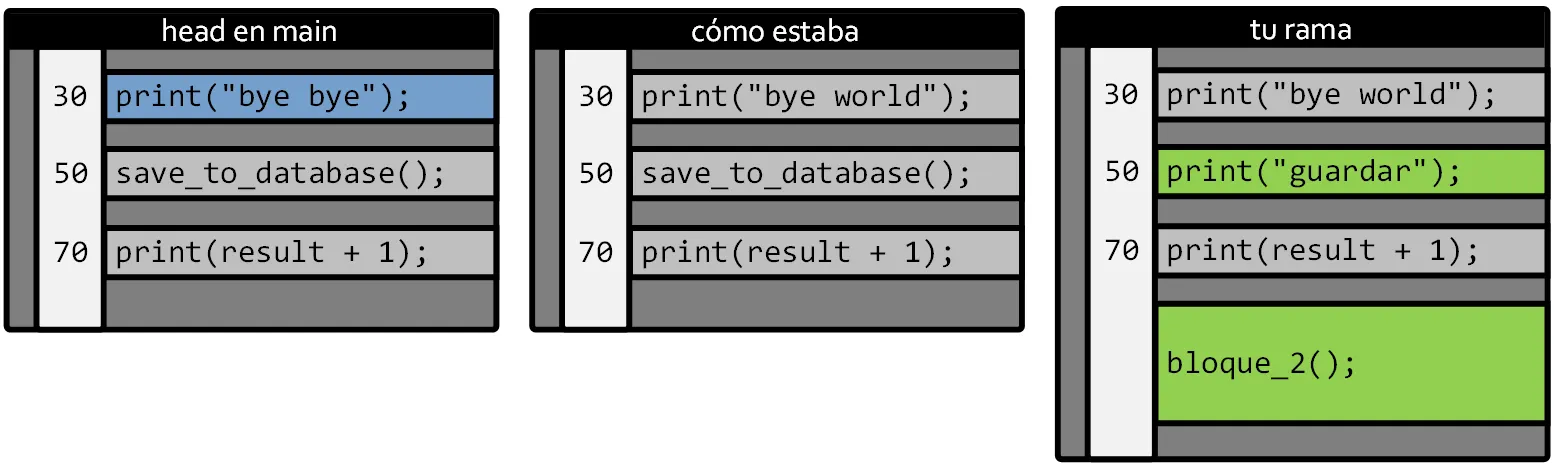
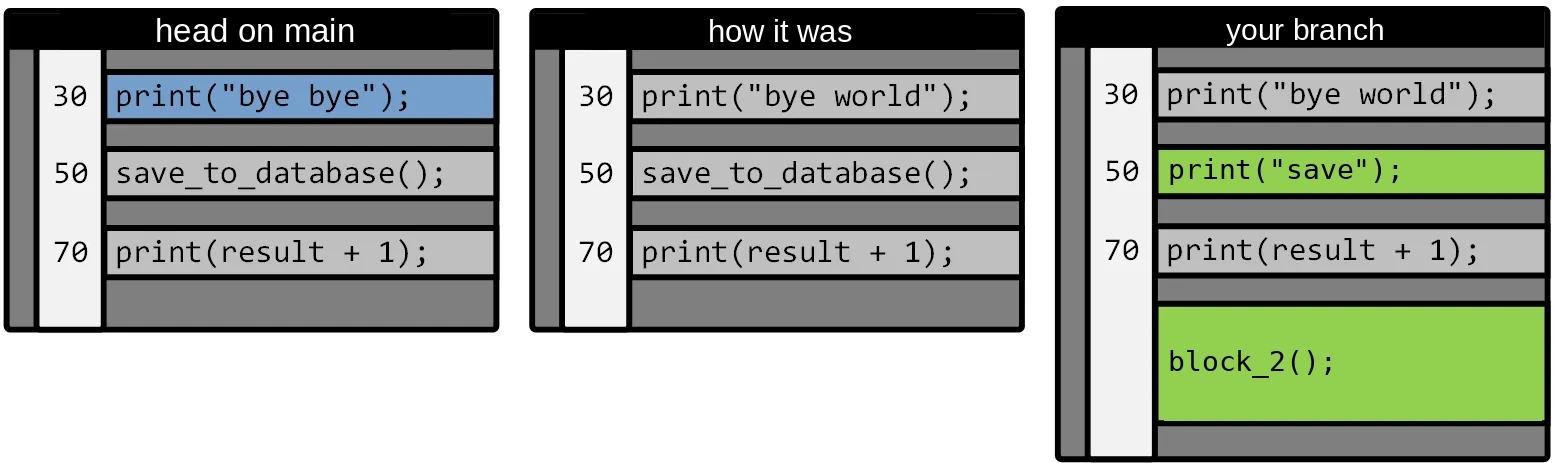
Translate diagram labels to English in 'Merges demystified'
Repaint the Spanish labels (panel titles, callouts, code identifiers)
in the diagrams with English text and update the post body to match.

Claude-Session: https://claude.ai/code/session_01Bm8L8zPbLpS56Kb4V7hqMr

diff --git a/content/posts/merges-demystified/index.md b/content/posts/merges-demystified/index.md
@@ -61,8 +61,6 @@ Sometimes this happens, and then merge tools need a human to decide:
 
 ![](./3.webp)
 
-(In the diagram, ‘tuyo’ is yours, ‘mío’ is mine, and ‘base’ is the base.)
-
 You put a 15 on line 50 where there used to be a 20, and I put a 25.
 
 This is what is called a ‘manual conflict’ and it is when you have to use a mergetool, or if you don’t have one, that thing with >>>>>>>>>>>> that nobody understands.
@@ -149,7 +147,7 @@ Let’s see why, with drawings.
 
 ![](./8.webp)
 
-After the merge you kept your changes (bloque\_importante()), and you brought in the changes from ‘main’ on lines 30 and 70 (print(“**bye** world”) and print(result **\+ 1**)).
+After the merge you kept your changes (important\_block()), and you brought in the changes from ‘main’ on lines 30 and 70 (print(“**bye** world”) and print(result **\+ 1**)).
 
 But, for whatever reason, you decided not to keep ‘save\_to\_database()’ thinking that the magic of the merge will save the situation later on.
 
@@ -159,7 +157,7 @@ So you keep working on your branch, and a while later that branch has to go into
 
 Since your version control ‘remembers’ the merges, now the base of your merge is the commit marked in orange.
 
-And what happens to your file? Let’s see: I’m going to assume that in main there is only one additional change to the file on line 30 (easy) and in your case you kept changing things in the final block, which I now call bloque\_2.
+And what happens to your file? Let’s see: I’m going to assume that in main there is only one additional change to the file on line 30 (easy) and in your case you kept changing things in the final block, which I now call block\_2.
 
 ![](./10.webp)
 
@@ -167,13 +165,11 @@ What will happen during the merge? Let’s put the files ‘in order’ with the
 
 ![](./11.webp)
 
-(In the diagram, ‘head en main’ is the head of main, ‘cómo estaba’ is how it was, and ‘tu rama’ is your branch.)
-
 The new change on line 30 in main goes in without conflict (there are no changes in the other two contributors).
 
-Your “print(“guardar”)” on line 50 ‘wipes out’ the save\_to\_database() (which looks important) because that is what you decided in the previous merge.
+Your “print(“save”)” on line 50 ‘wipes out’ the save\_to\_database() (which looks important) because that is what you decided in the previous merge.
 
-And your bloque\_2() will also go in automatically.
+And your block\_2() will also go in automatically.
 
 That is, you have “lost” the ‘save\_to\_database’ because you deleted it in the previous merge.
 
